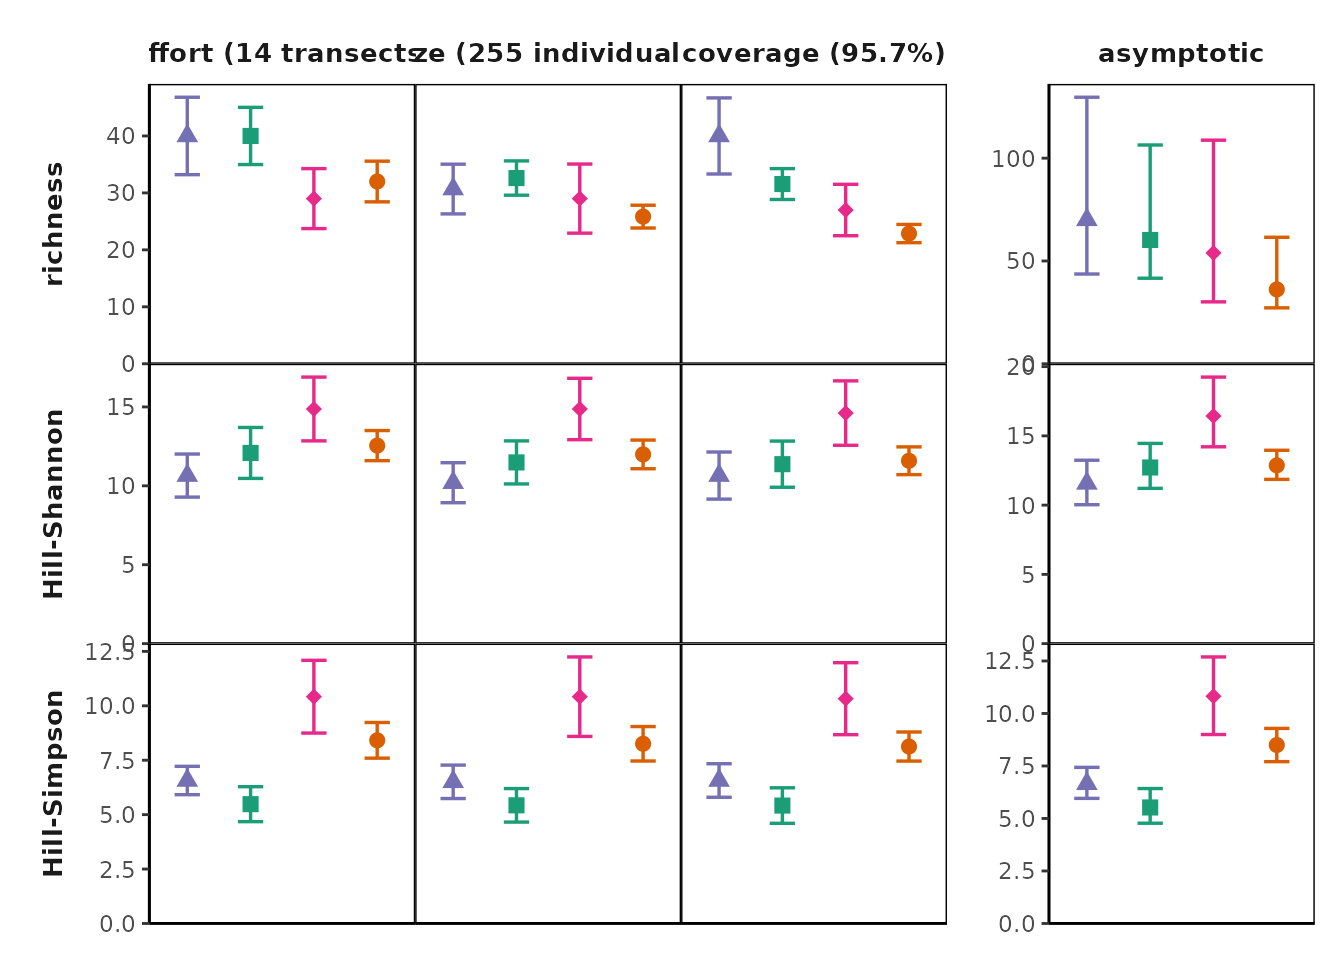
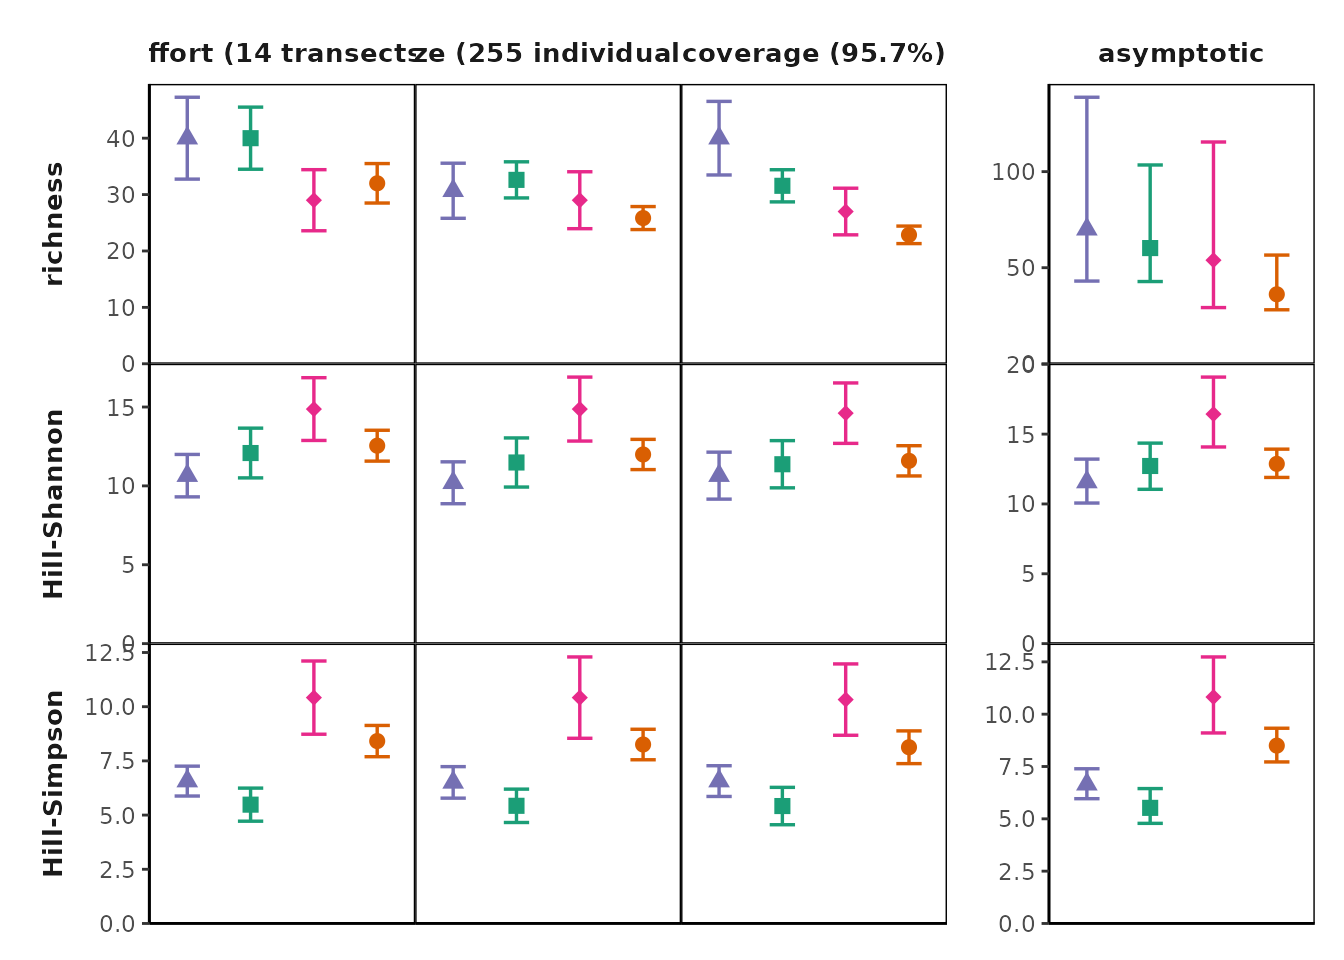
Built site for MeanRarity: 0.0.1.0003@7b77972

diff --git a/articles/Using_MeanRarity.html b/articles/Using_MeanRarity.html
@@ -329,16 +329,16 @@ functions to enable this --></p>
 <span class="va">uneven_sample</span> <span class="op">&lt;-</span> <span class="fu"><a href="../reference/sample_infinite.html">sample_infinite</a></span><span class="op">(</span><span class="va">uneven_SAD</span><span class="op">$</span><span class="va">rel_abundances</span>, <span class="fl">50</span><span class="op">)</span>
 <span class="co">#sample_infinite returns a numeric vector of sample species abundances</span>
 <span class="va">even_sample</span>
-<span class="co">#&gt;  [1] 12  3  4  5  2  1  2  3  1  5  2  2  1  0  3  2  1  1  0  0</span>
+<span class="co">#&gt;  [1] 11  7  1  2  5  3  3  2  3  4  0  0  1  2  0  3  2  1  0  0</span>
 <span class="va">uneven_sample</span>
-<span class="co">#&gt;  [1] 19  8  5  6  4  5  1  0  2  0  0  0  0  0  0  0  0  0  0  0</span>
+<span class="co">#&gt;  [1] 18  5  7  4  3  3  4  0  1  0  1  1  1  0  0  0  2  0  0  0</span>
 
 <span class="co"># we can compare evenness (given a scaling parameter `l`)</span>
 <span class="co"># the evenness is the normalized ratio of an arbitrary Hill diversity to richness</span>
 <span class="fu"><a href="../reference/e3Fun.html">e3Fun</a></span><span class="op">(</span><span class="va">even_sample</span>, <span class="op">-</span><span class="fl">1</span><span class="op">)</span>
-<span class="co">#&gt; [1] 0.533874</span>
+<span class="co">#&gt; [1] 0.5998926</span>
 <span class="fu"><a href="../reference/e3Fun.html">e3Fun</a></span><span class="op">(</span><span class="va">uneven_sample</span>, <span class="op">-</span><span class="fl">1</span><span class="op">)</span>
-<span class="co">#&gt; [1] 0.528464</span>
+<span class="co">#&gt; [1] 0.407496</span>
 
 <span class="co"># compare diversity from sample vs. ideal SAD:</span>
 <span class="co"># likely pretty far off for a small sample!</span>
@@ -351,7 +351,7 @@ functions to enable this --></p>
   <span class="fu"><a href="../reference/rarity.html">rarity</a></span><span class="op">(</span><span class="va">even_sample</span>, <span class="va">l</span><span class="op">)</span>
 <span class="op">}</span><span class="op">)</span><span class="op">)</span>
 <span class="co">#&gt;      [,1] [,2]     [,3]    </span>
-<span class="co">#&gt; [1,] 17   12.76203 9.541985</span>
+<span class="co">#&gt; [1,] 15   11.77102 9.398496</span>
 
 <span class="co"># with an uneven SAD, sample Hill-Simpson can be higher than true Hill-Simpson</span>
 <span class="co"># richness is always lower</span>
@@ -362,7 +362,7 @@ functions to enable this --></p>
   <span class="fu"><a href="../reference/rarity.html">rarity</a></span><span class="op">(</span><span class="va">uneven_sample</span>, <span class="va">l</span><span class="op">)</span>
 <span class="op">}</span><span class="op">)</span><span class="op">)</span>
 <span class="co">#&gt;      [,1] [,2]     [,3]    </span>
-<span class="co">#&gt; [1,] 8    5.958968 4.699248</span>
+<span class="co">#&gt; [1,] 12   7.820524 5.482456</span>
 
 
 <span class="va">big_even_sample</span> <span class="op">&lt;-</span> <span class="fu"><a href="../reference/sample_infinite.html">sample_infinite</a></span><span class="op">(</span><span class="va">even_SAD</span><span class="op">$</span><span class="va">rel_abundances</span>, <span class="fl">1e7</span><span class="op">)</span>
@@ -376,7 +376,7 @@ functions to enable this --></p>
   <span class="fu"><a href="../reference/rarity.html">rarity</a></span><span class="op">(</span><span class="va">big_even_sample</span>, <span class="va">l</span><span class="op">)</span>
 <span class="op">}</span><span class="op">)</span><span class="op">)</span>
 <span class="co">#&gt;      [,1] [,2]     [,3]    </span>
-<span class="co">#&gt; [1,] 20   15.12019 11.99832</span></code></pre></div>
+<span class="co">#&gt; [1,] 20   15.11821 11.99715</span></code></pre></div>
 <p>For any distribution of relative abundances, one can ask, “what is the Hill diversity of this distribution?” Yet the answer, of course, depends on the chosen value of the scaling parameter <span class="math inline">\(\ell\)</span>. For a comprehensive answer, one might look across values of <span class="math inline">\(\ell\)</span>, also known as a Hill “diversity profile” <span class="citation">(Chao et al. 2014)</span>. <strong>MeanRarity</strong> provides a function to generate a Hill diversity profile based on <span class="math inline">\(\ell\)</span> (rather than <span class="math inline">\(q\)</span>): <code><a href="../reference/divpro.html">divpro()</a></code>. <!-- these should be on a single plot, will be much more interesting that way!--></p>
 <div class="sourceCode" id="cb8"><pre class="downlit sourceCode r">
 <code class="sourceCode R"><span class="co"># the even and uneven communities have same richness but different Hill </span>
@@ -571,7 +571,7 @@ functions to enable this --></p>
 <!-- this is currently placeholders, but need to fill this out. Will require some serious focused time and maybe some blog posts -->
 <ol style="list-style-type: decimal">
 <li>
-<strong>iNEXT</strong> The R package <strong>iNEXT</strong> provides tools for rarefaction and extrapolation of sample Hill diversity estimates, and point estimates for asymptotic estimators for richness, Hill-Shannon, and Hill-Sampson. It computes sample Hill diversity for <span class="math inline">\(\ell\leq 1 = q \geq 0\)</span>. The function <code><a href="../reference/rarity.html">MeanRarity::rarity()</a></code> also computes mean rarity when <span class="math inline">\(\ell&gt;1\)</span>. Although estimates from <strong>iNEXT</strong> and <strong>MeanRarity</strong> should tend to be congruent for <span class="math inline">\(\ell = 1-q\)</span>, MeanRarity provides users with the option to use <span class="math inline">\(\ell\)</span> throughout, emphasizing the MeanRarity framework developed in Roswell et al. 2021 <span class="citation">(Roswell, Dushoff, and Winfree 2021)</span>. <strong>iNEXT</strong> functions are highly integrated, generating multiple outputs and computing bootstrapped variance estimates by default, whereas in <strong>MeanRarity</strong> most exported functions are comparatively simple. <strong>MeanRarity</strong> enables parameterizing Hill diversity with <code>q</code> or <code>l</code>, and provides tools for simulating species abundance distributions and visualizing mean rarity, which <strong>iNEXT</strong> does not, this may make <strong>MeanRarity</strong> best suited to students and those studying biodiversity estimation. <strong>iNEXT</strong> is well-suited to plotting empirical diversity data from a small to modest number of assemblages.</li>
+<strong>iNEXT</strong> The R package <strong>iNEXT</strong> provides tools for rarefaction and extrapolation of sample Hill diversity estimates, and point estimates for asymptotic estimators for richness, Hill-Shannon, and Hill-Simpson. It computes sample Hill diversity for <span class="math inline">\(\ell\leq 1 = q \geq 0\)</span>. The function <code><a href="../reference/rarity.html">MeanRarity::rarity()</a></code> also computes mean rarity when <span class="math inline">\(\ell&gt;1\)</span>. Although estimates from <strong>iNEXT</strong> and <strong>MeanRarity</strong> should tend to be congruent for <span class="math inline">\(\ell = 1-q\)</span>, MeanRarity provides users with the option to use <span class="math inline">\(\ell\)</span> throughout, emphasizing the MeanRarity framework developed in Roswell et al. 2021 <span class="citation">(Roswell, Dushoff, and Winfree 2021)</span>. <strong>iNEXT</strong> functions are highly integrated, generating multiple outputs and computing bootstrapped variance estimates by default, whereas in <strong>MeanRarity</strong> most exported functions are comparatively simple. <strong>MeanRarity</strong> enables parameterizing Hill diversity with <code>q</code> or <code>l</code>, and provides tools for simulating species abundance distributions and visualizing mean rarity, which <strong>iNEXT</strong> does not, this may make <strong>MeanRarity</strong> best suited to students and those studying biodiversity estimation. <strong>iNEXT</strong> is well-suited to plotting empirical diversity data from a small to modest number of assemblages.</li>
 <li>
 <code>SpadeR</code> The R package <code>SpadeR</code> provides similar estimates for Hill diversity as iNEXT, also parameterized by <span class="math inline">\(q\)</span> rather than <span class="math inline">\(\ell\)</span> (<strong>MeanRarity</strong> allows either parameterization, defaulting to <span class="math inline">\(\ell\)</span>). <code>SpadeR::diversity</code>, like <code><a href="../reference/divpro.html">MeanRarity::divpro</a></code>, generates a Hill diversity “profile”. Internal functions from <code>SpadeR</code> are used as source code in <strong>MeanRarity</strong> (e.g. a simplified version of<code>SpadeR:::Chao_Hill_abu()</code> is an exported function in <strong>MeanRarity</strong>). While <code>SpadeR</code> provides a suite of tools for estimating alpha- and beta-diversity, <strong>MeanRarity</strong> provides additional tools for simulation, visualization, and alternative parameterization.</li>
 <li>

diff --git a/reference/Chao_Hill_abu.html b/reference/Chao_Hill_abu.html
@@ -110,11 +110,11 @@ ISSN 2041210X, doi: <a href="https://doi.org/10.1111/2041-21" class="external-li
 <span class="r-in"></span>
 <span class="r-in"><span class="co"># estimate true Hill diversity</span></span>
 <span class="r-in"><span class="fu">Chao_Hill_abu</span><span class="op">(</span><span class="va">abs</span>, l <span class="op">=</span> <span class="fl">1</span><span class="op">)</span> <span class="co"># Chao1 estimate of richness lower bound</span></span>
-<span class="r-out co"><span class="r-pr">#&gt;</span> [1] 44.94</span>
+<span class="r-out co"><span class="r-pr">#&gt;</span> [1] 48.93333</span>
 <span class="r-in"><span class="fu">Chao_Hill_abu</span><span class="op">(</span><span class="va">abs</span>, l <span class="op">=</span> <span class="fl">0</span><span class="op">)</span> <span class="co"># Asymptotic estimate of Hill-Shannon diversity</span></span>
-<span class="r-out co"><span class="r-pr">#&gt;</span> [1] 26.2557</span>
+<span class="r-out co"><span class="r-pr">#&gt;</span> [1] 35.44767</span>
 <span class="r-in"><span class="fu">Chao_Hill_abu</span><span class="op">(</span><span class="va">abs</span>, l <span class="op">=</span> <span class="op">-</span><span class="fl">1</span><span class="op">)</span> <span class="co"># Asymptotic estimate of Hill-Simpson diversity</span></span>
-<span class="r-out co"><span class="r-pr">#&gt;</span> [1] 16.60475</span>
+<span class="r-out co"><span class="r-pr">#&gt;</span> [1] 28.58056</span>
 <span class="r-in"></span>
 </code></pre></div>
     </div>

diff --git a/reference/hurl.html b/reference/hurl.html
@@ -121,7 +121,7 @@ doi: <a href="https://doi.org/10.2307/1934145" class="external-link">10.2307/193
     <h2>Examples</h2>
     <div class="sourceCode"><pre class="sourceCode r"><code><span class="r-in"><span class="va">ab</span> <span class="op">=</span> <span class="fu"><a href="https://rdrr.io/r/base/sample.html" class="external-link">sample</a></span><span class="op">(</span><span class="fl">10</span><span class="op">:</span><span class="fl">50</span>, <span class="fl">50</span>, replace <span class="op">=</span><span class="cn">TRUE</span><span class="op">)</span></span>
 <span class="r-in"><span class="fu">hurl</span><span class="op">(</span><span class="va">ab</span>, <span class="fl">2</span><span class="op">)</span></span>
-<span class="r-out co"><span class="r-pr">#&gt;</span> [1] 44.7545</span>
+<span class="r-out co"><span class="r-pr">#&gt;</span> [1] 43.31204</span>
 <span class="r-in"><span class="co"># not run</span></span>
 <span class="r-in"><span class="co"># hurl(ab, 1e5) # returns an error</span></span>
 <span class="r-in"></span>

diff --git a/reference/Chat.Ind.html b/reference/Chat.Ind.html
@@ -111,11 +111,11 @@ doi: <a href="https://doi.org/10.1890/11-1952.1" class="external-link">10.1890/1
 <span class="r-in"></span>
 <span class="r-in"><span class="co"># estimate coverage of sample</span></span>
 <span class="r-in"><span class="fu">Chat.Ind</span><span class="op">(</span><span class="va">abs</span><span class="op">)</span></span>
-<span class="r-out co"><span class="r-pr">#&gt;</span> [1] 0.927638</span>
+<span class="r-out co"><span class="r-pr">#&gt;</span> [1] 0.9137785</span>
 <span class="r-in"></span>
 <span class="r-in"><span class="co"># estimate coverage under rarefaction</span></span>
 <span class="r-in"><span class="fu">Chat.Ind</span><span class="op">(</span><span class="va">abs</span>, m <span class="op">=</span> <span class="fl">100</span><span class="op">)</span></span>
-<span class="r-out co"><span class="r-pr">#&gt;</span> [1] 0.8646242</span>
+<span class="r-out co"><span class="r-pr">#&gt;</span> [1] 0.8720489</span>
 </code></pre></div>
     </div>
   </div>

diff --git a/reference/sample_finite.html b/reference/sample_finite.html
@@ -91,7 +91,7 @@ scalar</p></dd>
     <div id="ref-examples">
     <h2>Examples</h2>
     <div class="sourceCode"><pre class="sourceCode r"><code><span class="r-in"><span class="fu">sample_finite</span><span class="op">(</span><span class="fl">1</span><span class="op">:</span><span class="fl">9</span>, <span class="fl">15</span><span class="op">)</span></span>
-<span class="r-out co"><span class="r-pr">#&gt;</span> [1] 1 1 2 2 1 1 1 2 4</span>
+<span class="r-out co"><span class="r-pr">#&gt;</span> [1] 1 0 0 1 2 1 2 6 2</span>
 </code></pre></div>
     </div>
   </div>
